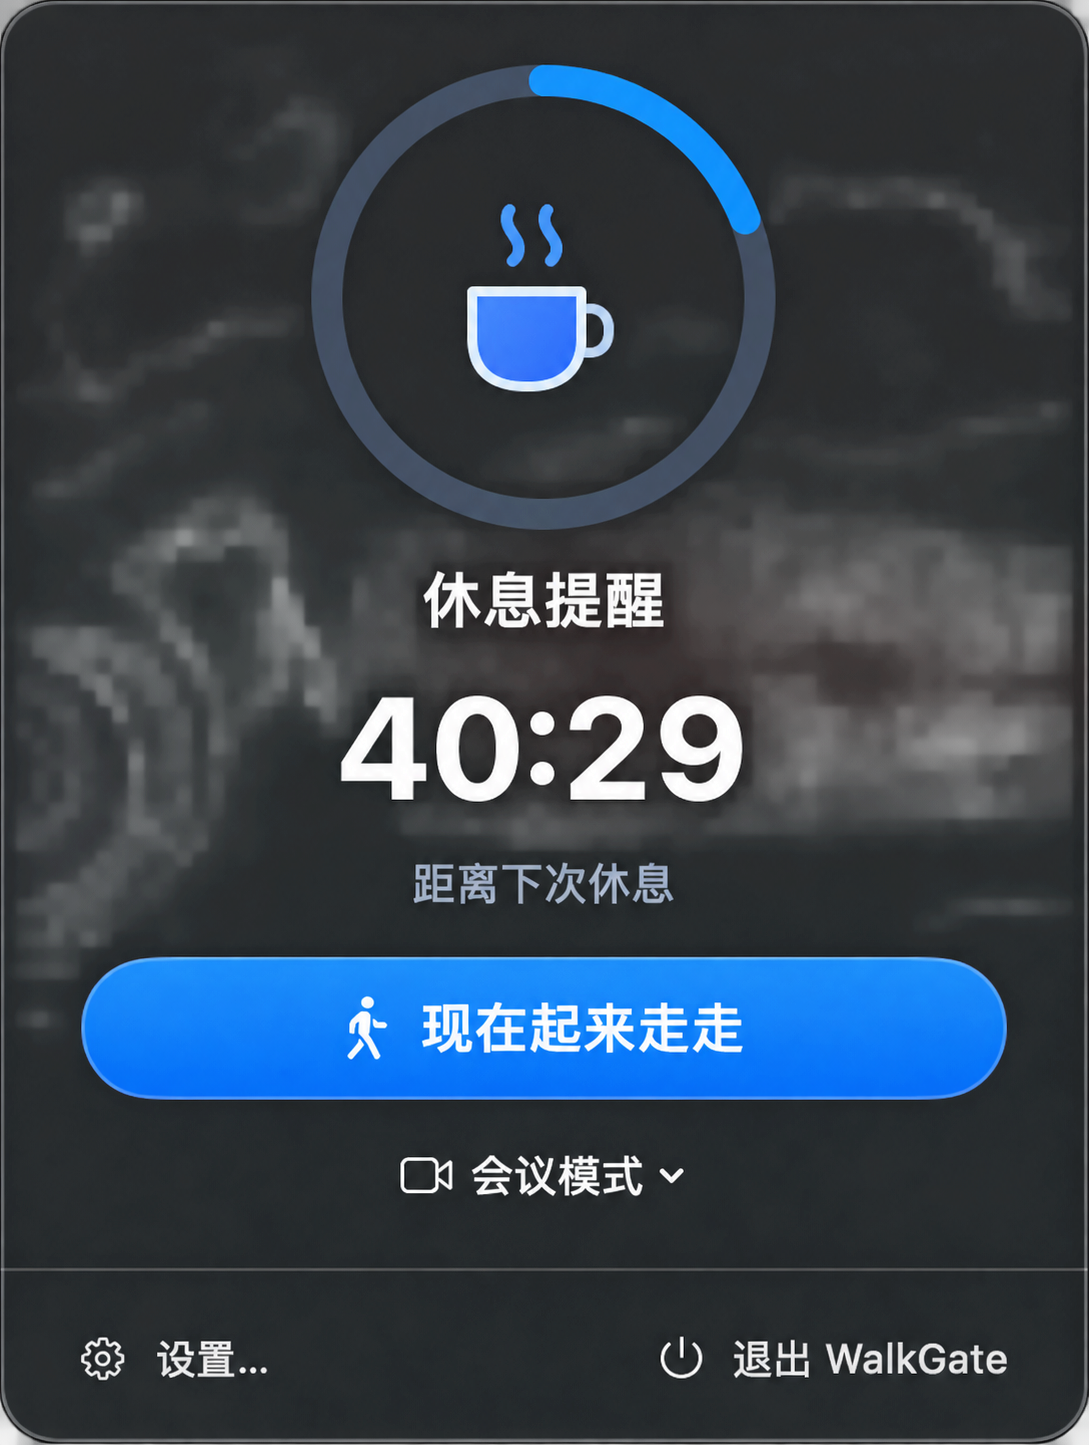
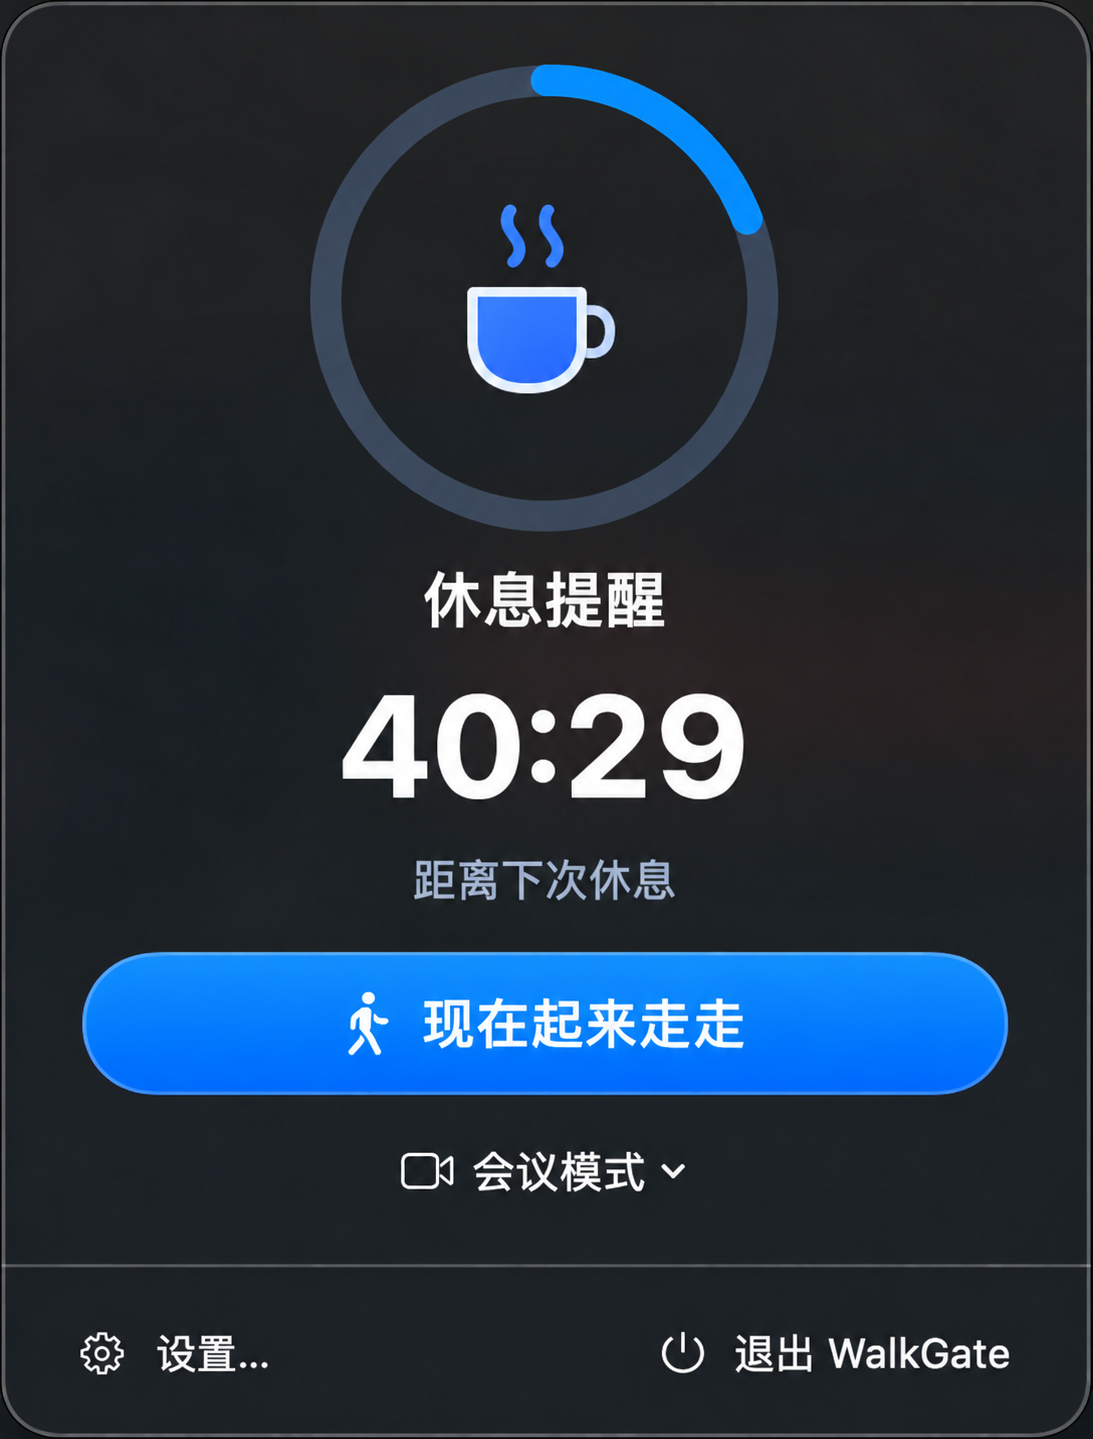
docs: 添加工作时间外界面截图并更新主界面
- 新增 docs/images/walkgate-off-hours.png 并在界面预览中展示
- 替换主界面截图 docs/images/walkgate-menu.png

diff --git a/README.md b/README.md
@@ -15,6 +15,10 @@
 <p align="center">
   <img src="docs/images/walkgate-menu.png" width="320" alt="WalkGate 菜单栏主界面" align="middle">
   &nbsp;&nbsp;
+  <img src="docs/images/walkgate-off-hours.png" width="320" alt="WalkGate 工作时间外面板" align="middle">
+</p>
+
+<p align="center">
   <img src="docs/images/walkgate-break-card.png" width="360" alt="WalkGate 休息提醒卡片" align="middle">
 </p>
 
